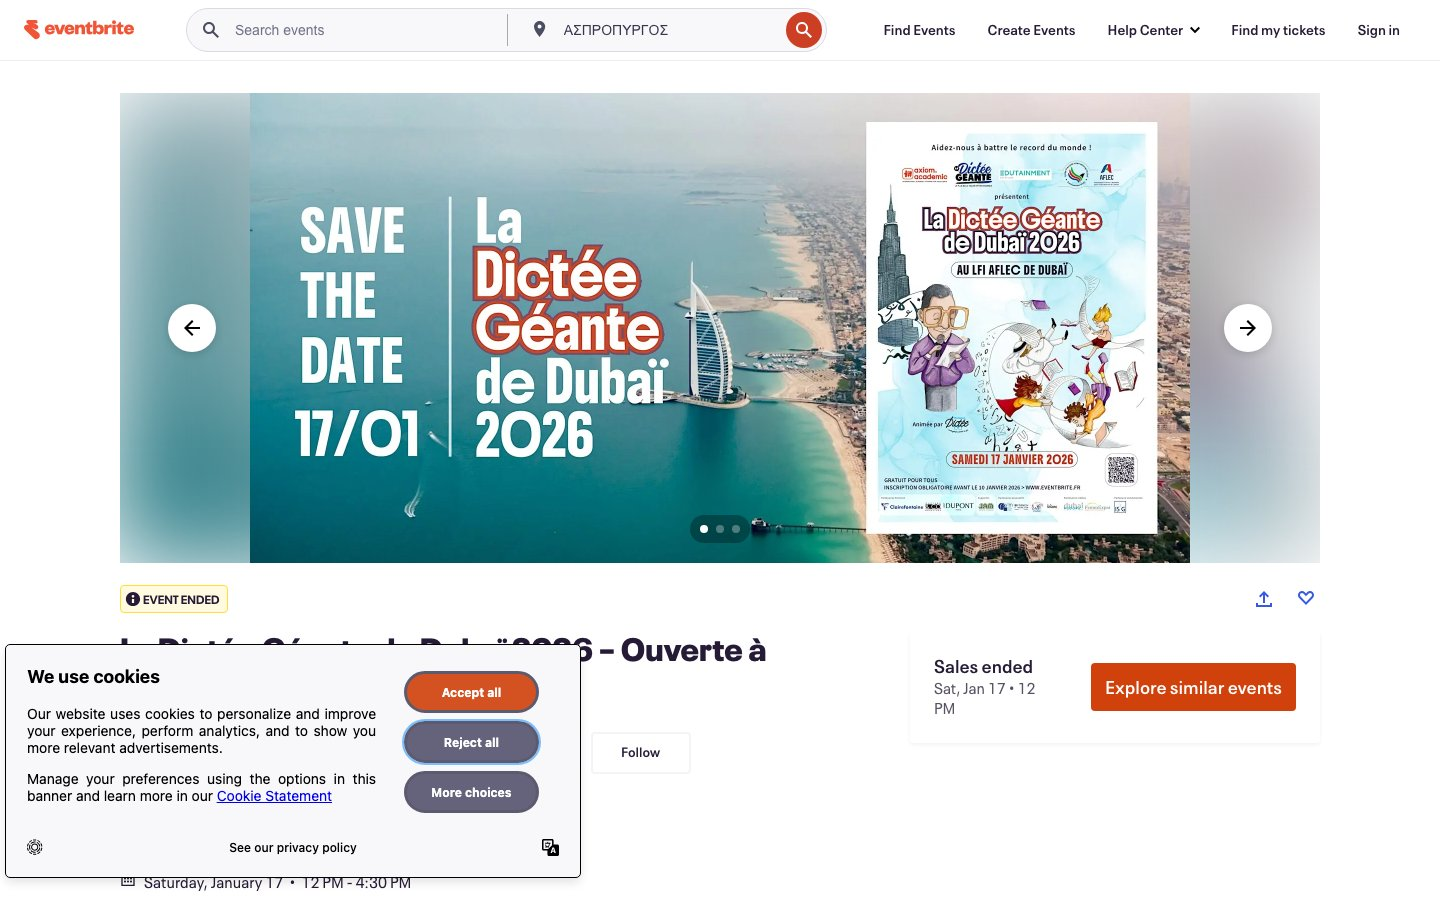
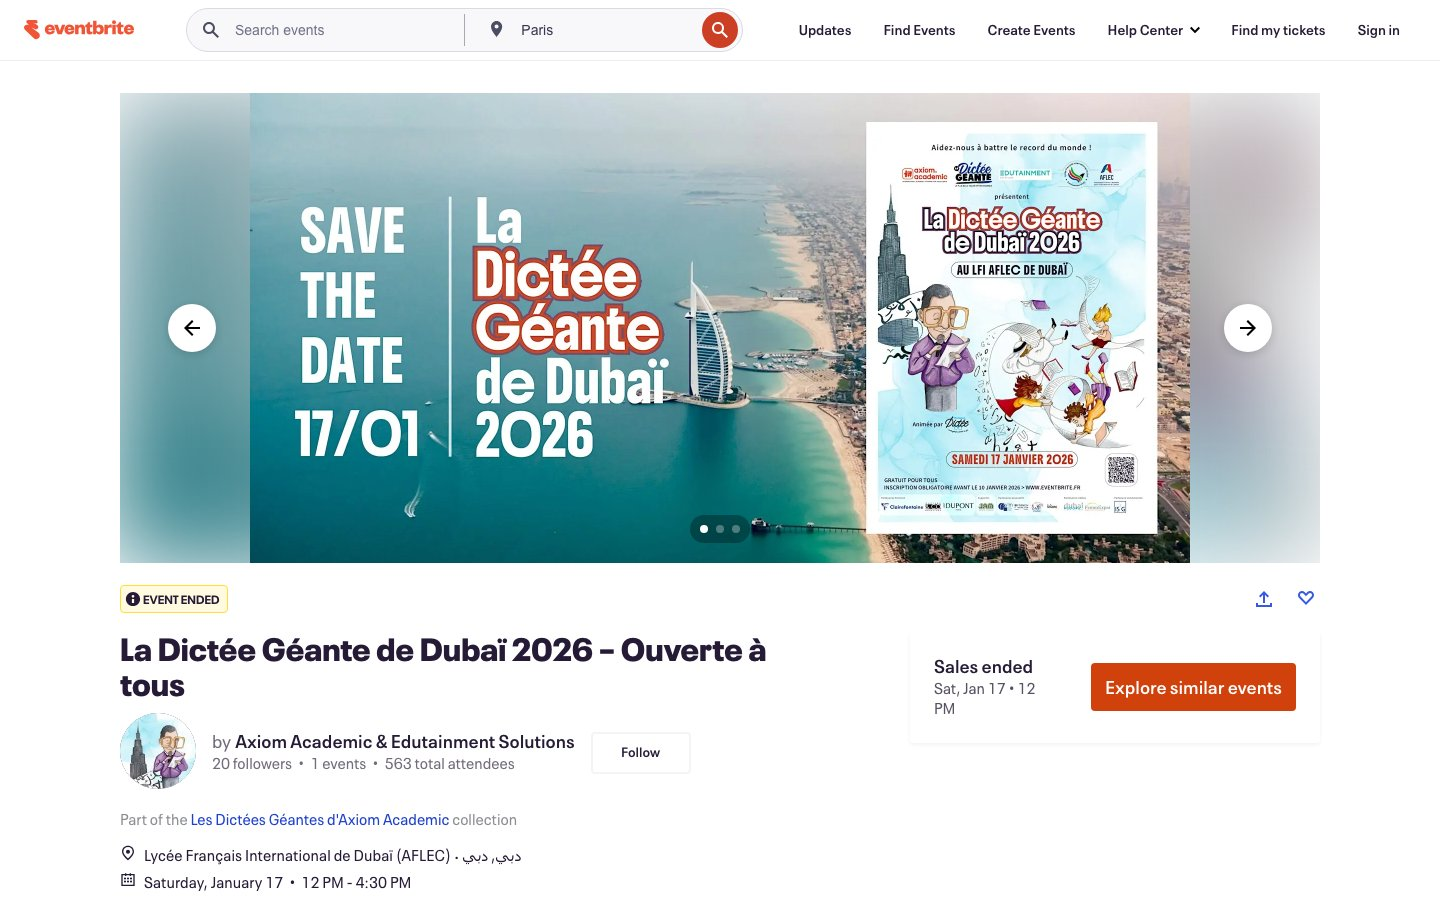
content: nouveau projet fixieshop-moscow + fix script screenshots
- Nouveau projet perso 2016 dans /projets (compte IG @fixieshopmoscow)
- Script screenshot-projets : dismiss bannières cookies (FR/EN + Meta
  non-sémantique) + suppression chirurgicale des dialogs/backdrops IG
- Re-shoot dictee-dubai propre (plus de bandeau cookies Eventbrite)
- Cover fixieshop-moscow uploadée manuellement (IG anti-scrape + dimming)

diff --git a/CHANGELOG.md b/CHANGELOG.md
@@ -8,6 +8,17 @@ Les versions suivent un schéma interne `0.PHASE.ITER` tant que le site n'est pa
 
 Phase 3 presque complète. Reste : chunk 3b (filtres `/projets`) + capsules timeline de `/a-propos`.
 
+### Contenu — Nouveau projet `fixieshop-moscow` (2026-04-24)
+- Ajout du projet **Fixieshop Moscow** dans `/projets` : compte Instagram animé en 2016 à Moscou, idée initiale de magasin de fixies non concrétisée, photos de tous les vélos de rue (notamment fixies underground Moscou + Saint-Pétersbourg).
+- `content/projets/fixieshop-moscow.mdx` : type `perso`, status `publie`, year 2016, `<Social platform="instagram">` vers `@fixieshopmoscow`.
+- Screenshot capturé via la nouvelle pipeline améliorée du script (cf. ci-dessous).
+
+### Outil — `scripts/screenshot-projets.mjs` : dismiss bannières cookies + modales (2026-04-24)
+- Le script de capture des projets affichait des screenshots pollués par les bandeaux cookies (Eventbrite, Instagram). Ajout d'une étape `dismissCookieBanner` qui tente de cliquer un bouton "Decline optional cookies / Refuser tout / Reject all" via `getByRole("button")` puis fallback `getByText` (Meta utilise des `<div>` stylés non-sémantiques).
+- Stratégie en 2 passes : navigate → dismiss → reload (le cookie de consent posé persiste dans le contexte) → screenshot rapide avant qu'un éventuel 2e prompt (signup wall IG) n'apparaisse.
+- Étape `removeBlockingDialogs` qui supprime à la fois `[role="dialog"]`/`[aria-modal]`/`<dialog>`, les backdrops `[role="presentation"]` fixed, et plus généralement les fixed-overlays plein écran qui ne sont pas la nav du haut. Inject aussi du CSS `!important` pour reset les `filter`/`backdrop-filter`/opacité.
+- Couvre Eventbrite (Dictée Dubaï re-shooté propre), réduit l'impact IG (Fixieshop reste légèrement dimmé — limites de l'anti-scrape Meta, acceptable).
+
 ### Contenu — Liens sociaux Axiom sur la page projet (2026-04-24)
 - Section "Suivre Axiom" ajoutée à `/projets/axiom-academic` avec 3 cartes `<Social>` (Instagram, Facebook, LinkedIn) pointant vers les comptes officiels (`@axiom.academic` + `linkedin.com/company/axiom-academic`).
 - Extension du composant `<Social>` pour supporter Facebook : ajout du `FacebookMark` SVG dans `components/icons/BrandMarks.tsx` + `'facebook'` dans le type `Platform` et les maps `MARKS`/`LABELS` de `components/mdx/Social.tsx`.
